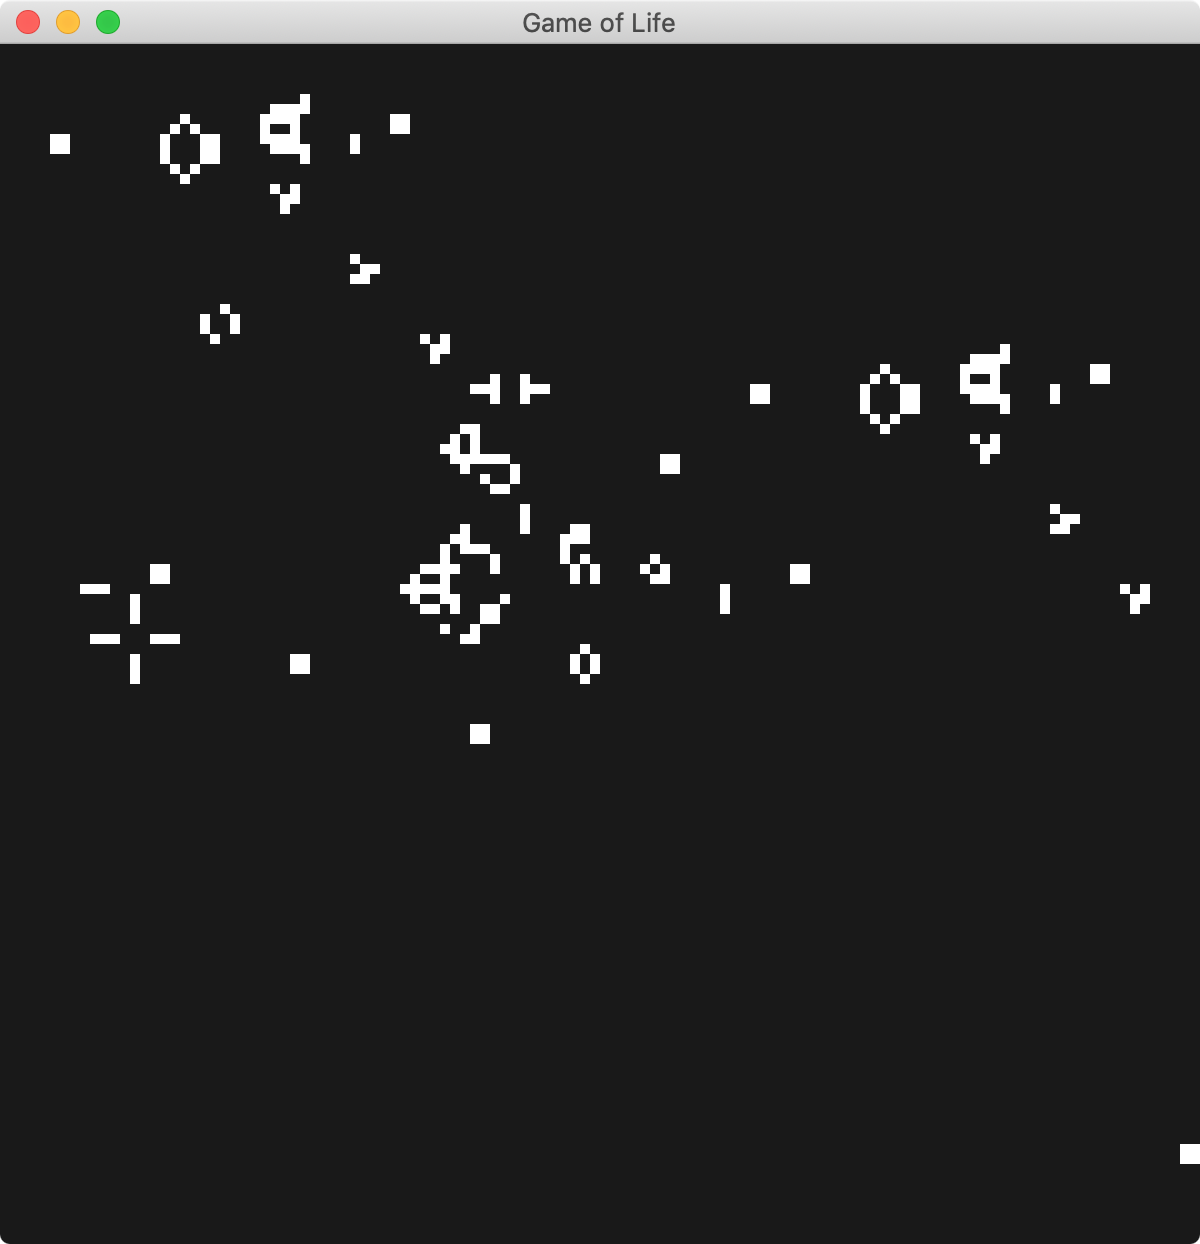
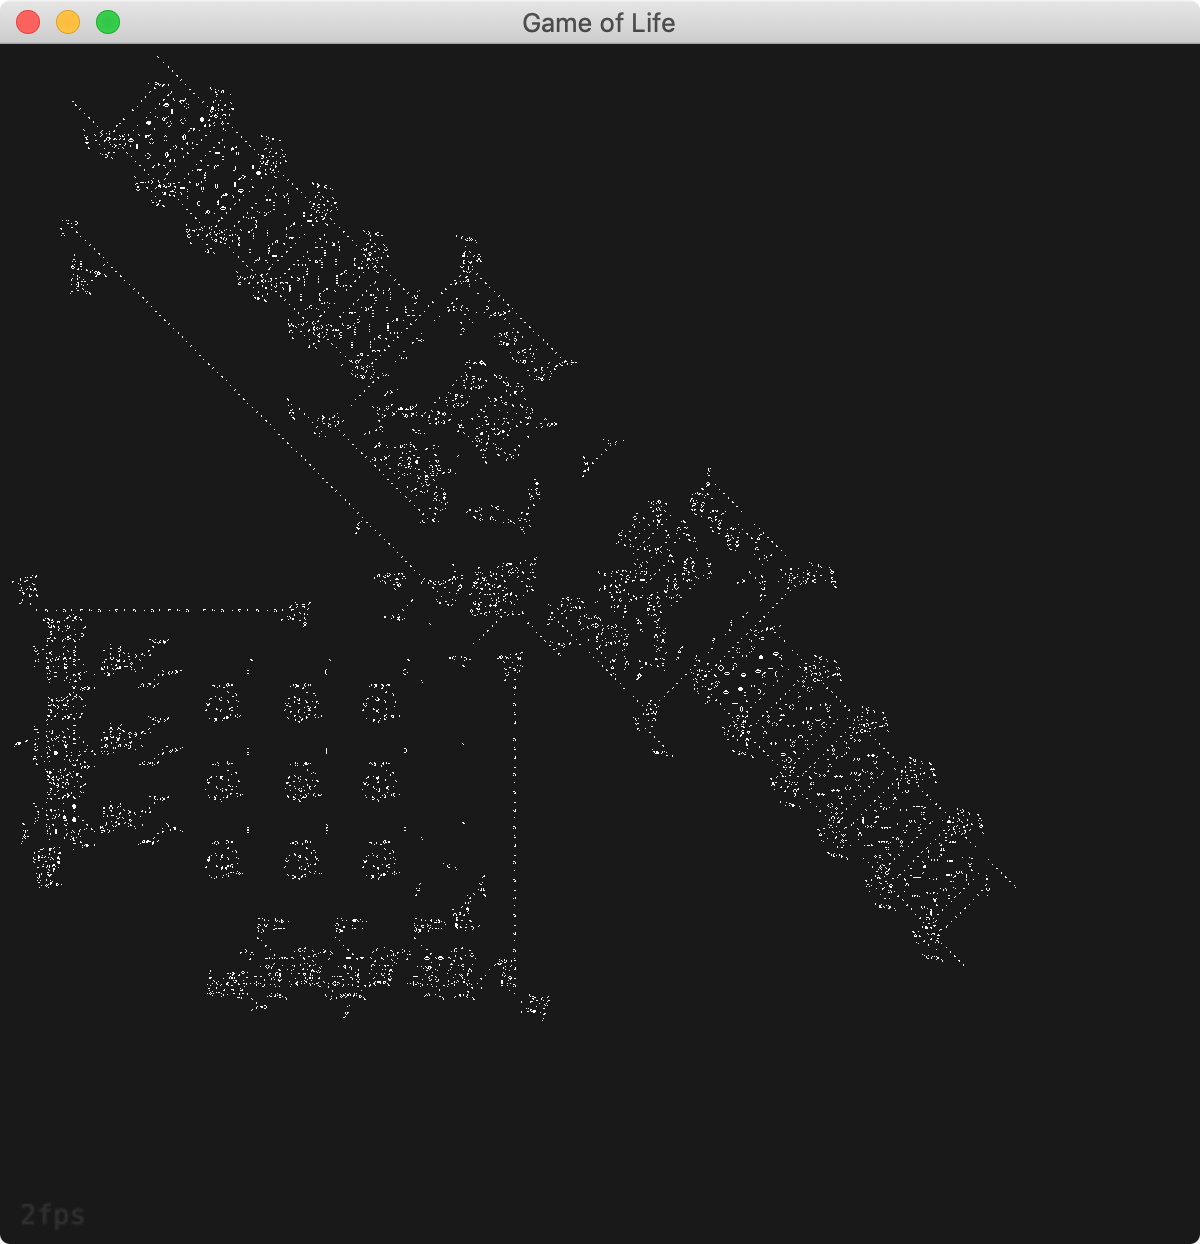
new demo pic

diff --git a/src/decoder.rs b/src/decoder.rs
@@ -184,7 +184,7 @@ pub fn get_rle_pattern(dir_path: String) -> Pattern {
     )
     }).collect::<Vec<String>>();
 
-    for (i, rle_path) in rle_paths.iter().enumerate() {
+    for (i, rle_path) in rle_paths.iter().enumerate().rev() {
         println!("[{}] {}", i, rle_path);
     }
 

diff --git a/src/config.rs b/src/config.rs
@@ -1,8 +1,8 @@
 
 // game width
-pub const GW: u64 = 64*4;
+pub const GW: u64 = 64*32;
 // game height
-pub const GH: u64 = 64*4;
+pub const GH: u64 = 64*32;
 
 // window width
 pub const WW: u64 = 600;
